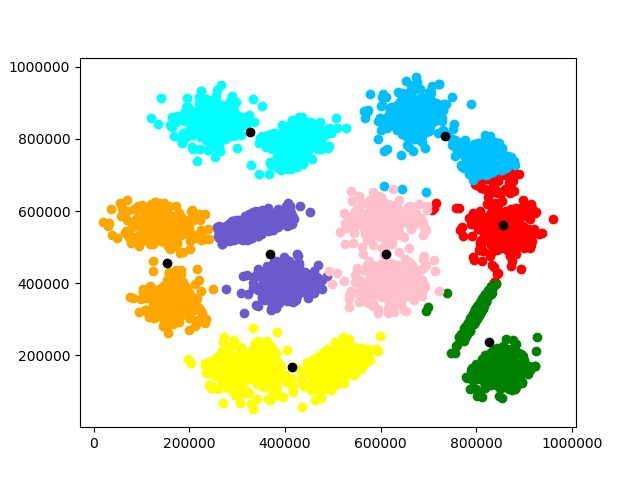
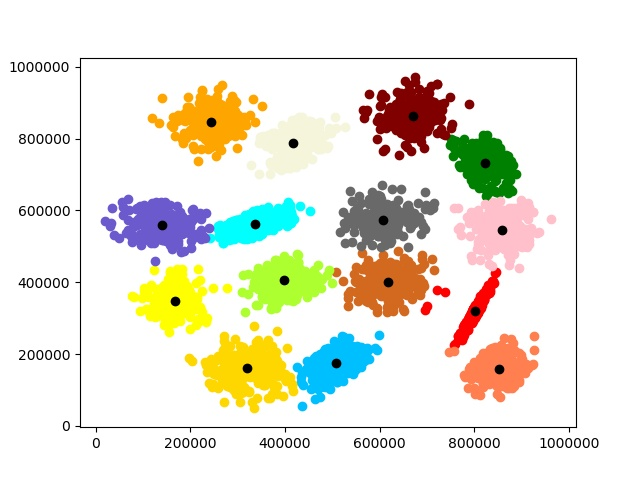
update: readme

diff --git a/Evaluate/evaluate.py b/Evaluate/evaluate.py
@@ -1,0 +1,128 @@
+import numpy as np
+
+
+class evaluate:
+
+    def __init__(self, center_num, point_set, means):
+        self.center_num = center_num
+        self.point_set = point_set
+        self.means = means
+
+    # 紧密性
+    # 越低意味着类内聚类距离越近，但没有考虑类间效果
+    def compactness(self):
+        cp = 0
+        for i in range(0, self.center_num):
+            total, mean = 0, self.means[i]
+            for point in self.point_set[i]:
+                total += np.sqrt(np.power(point[0]-mean[0],2)+np.power(point[1]-mean[1],2))
+            total /= len(self.point_set[i])
+            cp += total
+        return cp / self.center_num
+
+    # 间隔性
+    # 越高意味着类间聚类距离越远，但没有考虑类内效果
+    def separation(self):
+        sp = 0
+        for i in range(0, self.center_num):
+            for j in range(i, self.center_num):
+                mi, mj = self.means[i], self.means[j]
+                sp += np.sqrt(np.power(mi[0]-mj[0],2)+np.power(mi[1]-mj[1],2))
+        return 2*sp/(self.center_num*self.center_num-self.center_num)
+
+    # 戴维森堡丁指数 DBI
+    # DBI越小意味着类内距离小，同时类间距离大
+    # 不适合环状分布
+    def davies_bouldin_index(self):
+        db = 0
+        for i in range(0, self.center_num):
+            large, mi, ci = 0, self.means[i], 0
+            for point in self.point_set[i]:
+                ci += np.sqrt(np.power(point[0] - mi[0], 2) + np.power(point[1] - mi[1], 2))
+            ci /= len(self.point_set[i])
+            for j in range(0, self.center_num):
+                if i != j:
+                    cj, mj = 0, self.means[j]
+                    for point in self.point_set[j]:
+                        cj += np.sqrt(np.power(point[0] - mj[0], 2) + np.power(point[1] - mj[1], 2))
+                    cj /= len(self.point_set[j])
+                    tmp = (ci + cj) / np.sqrt(np.power(mi[0]-mj[0],2)+np.power(mi[1]-mj[1],2))
+                    if tmp > large:
+                        large = tmp
+            db += large
+        return db / self.center_num
+
+    # 邓恩指数 DVI
+    # DVI越大意味着类间距离越大， 同时类内距离越小
+    # 对离散点的聚类测评效果好， 但对环状分布测评效果差
+    def dunn_validity_index(self):
+        min, max = np.inf, 0
+        for i in range(0, self.center_num):
+            maxest = 0
+            for p1 in self.point_set[i]:
+                for p2 in self.point_set[i]:
+                    dist = np.sqrt(np.power(p1[0]-p2[0],2)+np.power(p1[1]-p2[1],2))
+                    if maxest < dist:
+                        maxest = dist
+            if max < maxest:
+                max = maxest
+            for j in range(0, self.center_num):
+                if i!=j:
+                    minest = np.inf
+                    for pi in self.point_set[i]:
+                        for pj in self.point_set[j]:
+                            dist = np.sqrt(np.power(pi[0]-pj[0],2)+np.power(pi[1]-pj[1],2))
+                            if minest > dist:
+                                minest = dist
+                    if min > minest:
+                        min = minest
+        return min / max
+
+    # 代价函数
+    # 用于肘部法则
+    def cost_function(self):
+        total = 0
+        for i in range(0, self.center_num):
+            tmp, mean = 0, self.means[i]
+            for point in self.point_set[i]:
+                tmp += np.power(point[0]-mean[0],2) + np.power(point[1]-mean[1],2)
+            total += tmp
+        return total
+
+    # 各点轮廓系数
+    def silhouette_coefficient(self, point, i):
+        dis_out, tmp = 0, 0
+        for p in self.point_set[i]:
+            tmp += np.sqrt(np.power(point[0]-p[0],2)+np.power(point[1]-p[1],2))
+        dis_in = tmp / (len(self.point_set[i])-1)
+        tmp = 0
+        for j in range(0, self.center_num):
+            if j != i:
+                for p in self.point_set[j]:
+                    dis_out += np.sqrt(np.power(point[0] - p[0], 2) + np.power(point[1] - p[1], 2))
+                tmp += len(self.point_set[j])
+        dis_out /= tmp
+        if dis_out > dis_in:
+            return (dis_out-dis_in)/dis_out
+        else:
+            return (dis_out-dis_in)/dis_in
+
+    # 总轮廓系数
+    def silhouette_score(self):
+        score, total = 0, 0
+        for i in range(0, self.center_num):
+            total += len(self.point_set[i])
+            for p in self.point_set[i]:
+                score += self.silhouette_coefficient(p, i)
+        return score / total
+
+
+
+
+    def __print__(self):
+        print(self.center_num)
+        print("紧密性: ", self.compactness())
+        print("间隔性: ", self.separation())
+        print("DBI: ", self.davies_bouldin_index())
+        print("DVI: ", self.dunn_validity_index())
+

diff --git a/Kmeans/K_center.py b/Kmeans/K_center.py
@@ -8,11 +8,15 @@ class Kcenter:
     centers = {}  # 中心点
     point_sets = {}  # 点分类
     visits = []  # 计算中需要使用的变量
+    r = 0 # 点密度半径取值
 
-    def __init__(self, K, points):
+    def __init__(self, K, points, r):
         self.K = K
         self.points = points
         self.visits = copy.deepcopy(points)
+        self.centers = {}
+        self.point_sets = {}
+        self.r = r
 
     '''
     Step 1: Initialization: Create a single cluster of all nodes.
@@ -33,7 +37,10 @@ class Kcenter:
     def cluster(self):
         count = 0
         # Step 1
-        self.centers[0] = self.visits[0]
+        # self.centers[0] = self.visits[np.random.randint(0, len(self.visits), 1)[0]]
+        # 通过计算密度得出最佳第一点为 (801539.0, 318482.0)
+        self.centers[0] = self.density(self.r)
+        # self.centers[0] = (801539.0, 318482.0)
         self.point_sets[count] = []
         for visit in self.visits:
             self.point_sets[0].append(visit)
@@ -66,12 +73,25 @@ class Kcenter:
                 # 重新划分点
                 self.point_sets[current_part].append(point)
             count += 1
-            print("=========", count, '==========')
-            print(self.centers)
-        print("计算完成")
-        print(self.centers)
-        print(self.point_sets)
+            # print("=========", count, '==========')
+            # print(self.centers)
+        # print("计算完成")
+        # print(self.centers)
+        # print(self.point_sets)
 
+    # 计算密度
+    def density(self, r):
+        large, point = 0, None
+        for pi in self.points:
+            total = 0
+            for pj in self.points:
+                dist = np.sqrt(np.power(pi[0]-pj[0],2)+np.power(pi[1]-pj[1],2))
+                if dist < r:
+                    total += 1
+            if large < total:
+                large = total
+                point = pi
+        return point
 
 
 

diff --git a/entry.py b/entry.py
@@ -2,24 +2,35 @@ from Kmeans.util import read_file
 from Kmeans.K_means import Kmeans
 import matplotlib.pyplot as plt
 from Kmeans.draw import draw_point
+from Evaluate.evaluate import evaluate
 
 
-def k_means_cluster(k_center=True, picName='picture'):
+def k_means_cluster(k_center, center_num, picName='picture'):
     points = read_file()
-    cluster = Kmeans(8, points, k_center)
+    cluster = Kmeans(center_num, points, k_center)
     cluster.cluster()
-    colors = ['red','orange','yellow','green','cyan','deepskyblue','slateblue','pink']
+    colors = ['red','orange','yellow','green','cyan','deepskyblue','slateblue','pink',
+              'beige','chocolate','coral','dimgray','gold','greenyellow','maroon',
+              'mediumblue','orchid','plum','snow','teal','violet']
     centers = []
-    for i in range(8):
+    for i in range(center_num):
         draw_point(cluster.point_sets[i],colors[i])
         centers.append(cluster.means[i])
     draw_point(centers,'black')
     plt.savefig('data/'+picName+'.jpg')
     plt.show()
+    # 聚类评价
+    eva = evaluate(center_num,cluster.point_sets,cluster.means)
+    # eva.__print__()
+    print(center_num, ' ', eva.silhouette_score(),' ',eva.cost_function())
+
 
 
 if __name__ == '__main__':
-    k_means_cluster(True, 'init_with_kcenter')
-    k_means_cluster(False, 'init_with_random')
+    # for i in range(8, 17):
+    #    k_means_cluster(True, i, 'init_with_kcenter')
+    #    k_means_cluster(False, i, 'init_with_random')
+    # k_means_cluster(True, 15, 'init_with_kcenter')
+    k_means_cluster(False, 15, 'init_with_random')
 
 

diff --git a/Kmeans/K_means.py b/Kmeans/K_means.py
@@ -19,12 +19,13 @@ class Kmeans:
         for i in range(K):
             self.point_sets[i] = []
         self.k_center = k_center
+        self.means = {}
 
     # 选择初始质心
     def select_init_centroid(self):
         if self.k_center:
             # 使用K-center选取
-            kcenter = Kcenter(self.K, self.points)
+            kcenter = Kcenter(self.K, self.points, 150)
             kcenter.cluster()
             for i in range(self.K):
                 self.means[i] = kcenter.centers[i]
@@ -79,11 +80,11 @@ class Kmeans:
             self.divide_set()
             is_change = self.select_new_centroid()
             times+=1
-            print("=========",times,'==========')
-            print(self.means)
-        print("计算完成")
-        print(self.means)
-        print(self.point_sets)
+            # print("=========",times,'==========')
+            # print(self.means)
+        # print("计算完成")
+        # print(self.means)
+        # print(self.point_sets)
 
 
 

diff --git a/Kmeans/util.py b/Kmeans/util.py
@@ -11,7 +11,7 @@ def read_file():
         x, y = split_x_y(line)
         points.append((x,y))
         line = f.readline()
-    print(len(points))
+    # print(len(points))
     return points
 
 

diff --git a/readme.md b/readme.md
@@ -1,6 +1,6 @@
 # K-means Algorithm
 
-> Last Update Date: 2020-1-28
+> Last Update Date: 2020-3-3
 
 ## Project Introduction
 
@@ -40,6 +40,15 @@ K-means algorithm depends on the selection of inital solution. We introduce K-ce
 * Step 2: Suppose in the current iteration, there are x existing clusters, and a distance d is the current maximum distance between any node and its hub. We find such a node v that the distance between v and its hub is d.
 * Step 3: Continue at iteration x, Create a new cluster with v as the only node. Then for each point, if we find that the dist(point, its hub) > dist(point, v), that is, the point is closer to the new cluster hub than it is to its old hub, we move the point from its old cluster to the new cluster.
 * Step 4: Iterate the Step 2 and 3 for K-1 times, and we finally get K clusters with corresponding hub nodes as output.
+* In the first step, we need to assume the first center point randomly. In order to reduce the uncertainty brought by random hypothesis, we introduce the concept of point density. We will take point P as the center of a circle and the number of points within the radius R as the density of P. And then we select the point with the highest density as the initial first center point.
+
+### Measurement standard of clustering accuracy
+* Compactness: The lower the value is, the closer the in-cluster-distance is, but the effect between clusters is not considered.
+* Separation: The higher the value is, the farther the between-cluster-distance is, but the intra cluster effect is not considered.
+* Davies Bouldin Index (Recommended): The smaller the DBI is, the smaller the in-cluster-distance and the larger the between-cluster-distance are. But it's not suitable for circular distribution.
+* Dunn Validity Index: The higher the DVI is, the larger the between-cluster-distance and the smaller the in-cluster-distance are. But it's not suitable for circular distribution either.
+* Sum of Squared Error, SEE: According to the change trend of SEE with different K, K corresponding to eblow points is selected as the optimal cluster number.
+* Silhouette Coefficient: The value is between [-1,1], the closer to 1, the better cohesion and separation.
 
 #### K-means clustering results with randomly selected initial points
 ![avatar](https://github.com/RongRongJi/K-meansCluster/blob/master/data/init_with_random.jpg?raw=true)
@@ -51,16 +60,32 @@ K-means algorithm depends on the selection of inital solution. We introduce K-ce
 ### Basic example
 ```python
 from entry import k_means_cluster
-k_means_cluster(True, 'init_with_kcenter')
-k_means_cluster(False, 'init_with_random')
+k_means_cluster(True, 15, 'init_with_kcenter')
+k_means_cluster(False, 15, 'init_with_random')
 ```
 
 ### Functions
-`k_means_cluster(using_kcenter, picture_name)` `Function`<br>
+* `k_means_cluster(using_kcenter, picture_name)` `Function`<br>
 The function is used to read the dataset, and use k-means algorithm to cluster the dataset, and output it in the form of image.<br>
 Props: <br>
-`using_kcenter` decide whether to use k-center algorithm to initialize centers of the dataset. `True` for use, while `False` for not, default `True`.
-`picture_name` decide the name of the output image. Default `picture`.
+`using_kcenter` decide whether to use k-center algorithm to initialize centers of the dataset. `True` for use, while `False` for not, default `True`.<br>
+`k` decide the K.<br>
+`picture_name` decide the name of the output image. Default `picture`.<br>
+* `evaluate` `Class`<br>
+It's a class to calculate some measure standards of clustering accuracy.<br>
+It includes all the above evaluate criteria.<br>
+```python
+from Evaluate.evaluate import evaluate
+# Need to input the K, the point sets and the centers of points.
+eva = evaluate(k, point_sets, centers)
+eva.compactness()
+eva.separation()
+eva.davies_bouldin_index()
+eva.dunn_validity_index()
+eva.cost_function()     # return the SEE
+eva.silhouette_coefficient(point, i)    # single point silhouette coefficient
+eva.silhouette_score()     # return the total silhouette score.
+```
 
 
 ****
